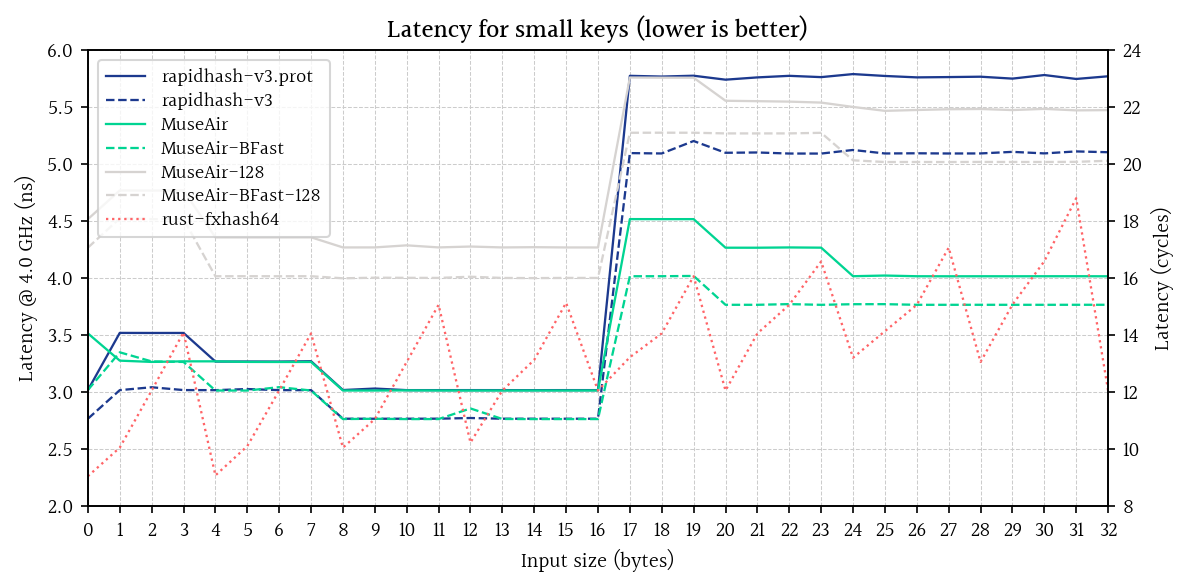
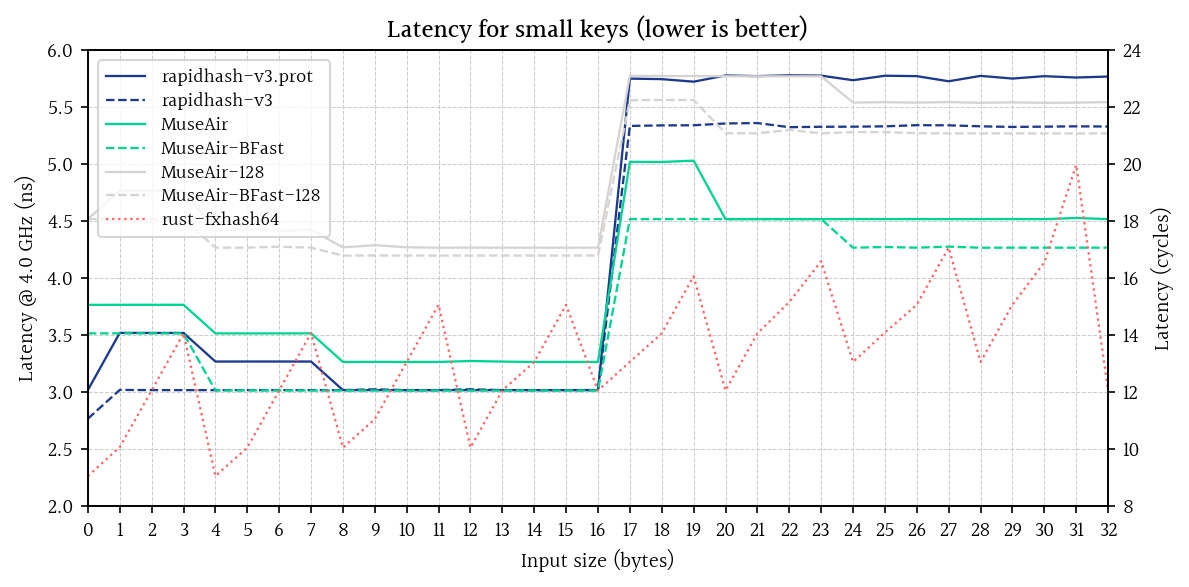
Update charts for MuseAir v1a

diff --git a/results/plot-bench-smallkeys.py b/results/plot-bench-smallkeys.py
@@ -6,37 +6,37 @@ SIZES = list(range(0, 33))
 DATA = [
     [
         "rapidhash-v3.prot",
-        "3.0143;3.5168;3.5162;3.5163;3.2651;3.2654;3.2650;3.2680;3.0148;3.0280;3.0141;3.0141;3.0142;3.0141;3.0139;3.0142;3.0142;5.7746;5.7681;5.7755;5.7408;5.7608;5.7746;5.7632;5.7900;5.7734;5.7610;5.7636;5.7669;5.7501;5.7815;5.7471;5.7706",
+        "3.0154;3.5170;3.5163;3.5165;3.2652;3.2655;3.2655;3.2653;3.0144;3.0142;3.0140;3.0143;3.0140;3.0143;3.0140;3.0139;3.0151;5.7501;5.7456;5.7231;5.7777;5.7719;5.7791;5.7764;5.7359;5.7755;5.7718;5.7268;5.7741;5.7506;5.7716;5.7597;5.7682",
         {"c": "#1c398e"},
     ],
     [
         "rapidhash-v3",
-        "2.7628;3.0141;3.0394;3.0146;3.0139;3.0236;3.0141;3.0141;2.7631;2.7628;2.7631;2.7634;2.7692;2.7631;2.7631;2.7630;2.7631;5.0959;5.0927;5.2021;5.0987;5.1014;5.0921;5.0918;5.1234;5.0927;5.0943;5.0925;5.0930;5.1068;5.0933;5.1107;5.1036",
+        "2.7634;3.0160;3.0143;3.0142;3.0140;3.0142;3.0143;3.0142;3.0139;3.0212;3.0141;3.0142;3.0216;3.0143;3.0142;3.0144;3.0138;5.3345;5.3393;5.3403;5.3561;5.3599;5.3235;5.3271;5.3280;5.3310;5.3412;5.3400;5.3311;5.3258;5.3282;5.3310;5.3293",
         {"c": "#1c398e", "f": "--"},
     ],
     [
         "MuseAir",
-        "3.5124;3.2731;3.2619;3.2670;3.2670;3.2619;3.2614;3.2617;3.0107;3.0106;3.0119;3.0109;3.0106;3.0108;3.0108;3.0107;3.0110;4.5162;4.5159;4.5160;4.2650;4.2649;4.2674;4.2654;4.0147;4.0205;4.0144;4.0140;4.0143;4.0141;4.0144;4.0146;4.0140",
+        "3.7631;3.7634;3.7635;3.7634;3.5126;3.5124;3.5124;3.5126;3.2615;3.2625;3.2617;3.2618;3.2699;3.2648;3.2615;3.2619;3.2620;5.0192;5.0180;5.0294;4.5158;4.5162;4.5166;4.5159;4.5164;4.5163;4.5164;4.5159;4.5165;4.5164;4.5159;4.5260;4.5163",
         {"c": "#00d492"},
     ],
     [
         "MuseAir-BFast",
-        "3.0154;3.3463;3.2663;3.2616;3.0108;3.0105;3.0402;3.0108;2.7600;2.7626;2.7598;2.7599;2.8532;2.7607;2.7598;2.7599;2.7599;4.0144;4.0146;4.0171;3.7636;3.7636;3.7696;3.7634;3.7688;3.7692;3.7635;3.7635;3.7637;3.7635;3.7635;3.7637;3.7638",
+        "3.5128;3.5127;3.5127;3.5127;3.0109;3.0118;3.0111;3.0108;3.0108;3.0109;3.0107;3.0109;3.0107;3.0110;3.0109;3.0107;3.0112;4.5160;4.5166;4.5167;4.5167;4.5165;4.5162;4.5166;4.2653;4.2711;4.2655;4.2744;4.2650;4.2654;4.2655;4.2651;4.2655",
         {"c": "#00d492", "f": "--"},
     ],
     [
         "MuseAir-128",
-        "4.5159;4.7679;4.7668;4.7679;4.3563;4.3561;4.3562;4.3565;4.2674;4.2676;4.2858;4.2676;4.2753;4.2674;4.2697;4.2673;4.2671;5.7597;5.7582;5.7579;5.5556;5.5520;5.5480;5.5396;5.5013;5.4670;5.4745;5.4811;5.4833;5.4739;5.4843;5.4712;5.4735",
+        "4.5161;4.7671;4.7674;4.7668;4.4154;4.4259;4.4129;4.4231;4.2683;4.2874;4.2686;4.2651;4.2656;4.2652;4.2653;4.2652;4.2653;5.7748;5.7730;5.7728;5.7707;5.7703;5.7704;5.7701;5.5402;5.5428;5.5392;5.5438;5.5378;5.5418;5.5373;5.5391;5.5437",
         {},
     ],
     [
         "MuseAir-BFast-128",
-        "4.2654;4.5227;4.5158;4.5161;4.0143;4.0146;4.0144;4.0145;3.9964;4.0017;4.0006;3.9997;4.0102;3.9995;3.9980;3.9998;3.9994;5.2745;5.2751;5.2747;5.2689;5.2687;5.2690;5.2741;5.0327;5.0175;5.0178;5.0174;5.0183;5.0180;5.0179;5.0191;5.0286",
+        "4.5160;4.5164;4.5161;4.5160;4.2655;4.2654;4.2738;4.2651;4.1957;4.1964;4.1961;4.1956;4.1958;4.1962;4.1960;4.1960;4.1964;5.5598;5.5629;5.5618;5.2704;5.2699;5.2994;5.2699;5.2799;5.2798;5.2708;5.2690;5.2687;5.2688;5.2686;5.2686;5.2686",
         {"f": "--"},
     ],
     [
         "rust-fxhash64",
-        "2.2579;2.5091;3.0105;3.5207;2.2651;2.5223;3.0113;3.5123;2.5089;2.7600;3.2617;3.7635;2.5536;3.0107;3.2803;3.7811;3.0104;3.3030;3.5124;4.0146;3.0107;3.5124;3.7634;4.1444;3.2986;3.5318;3.7630;4.2653;3.2616;3.7652;4.1462;4.6999;3.0106",
+        "2.2594;2.5141;3.0110;3.5126;2.2598;2.5090;3.0109;3.5164;2.5091;2.7597;3.2616;3.7636;2.5088;3.0108;3.2616;3.7632;3.0109;3.2616;3.5130;4.0140;3.0109;3.5124;3.7879;4.1468;3.2618;3.5202;3.7635;4.2657;3.2618;3.7647;4.1350;4.9916;3.0106",
         {"c": "#ff6467", "f": ":"},
     ],
 ]